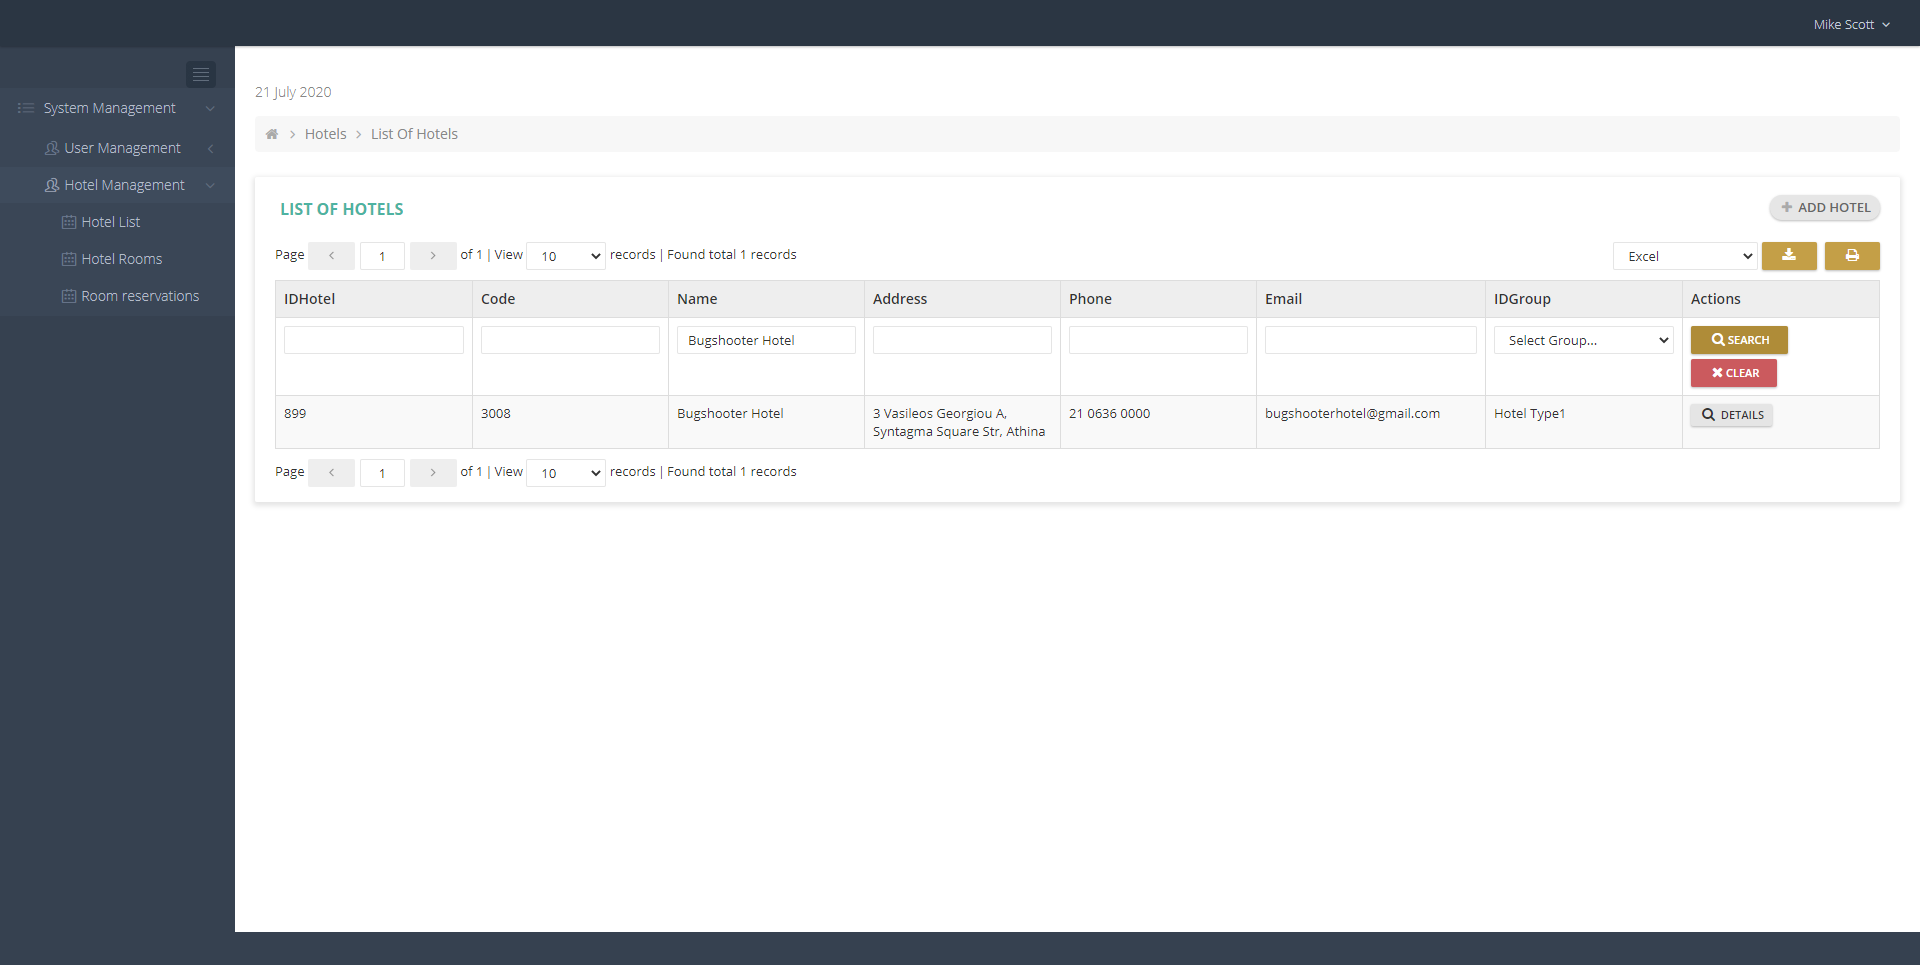
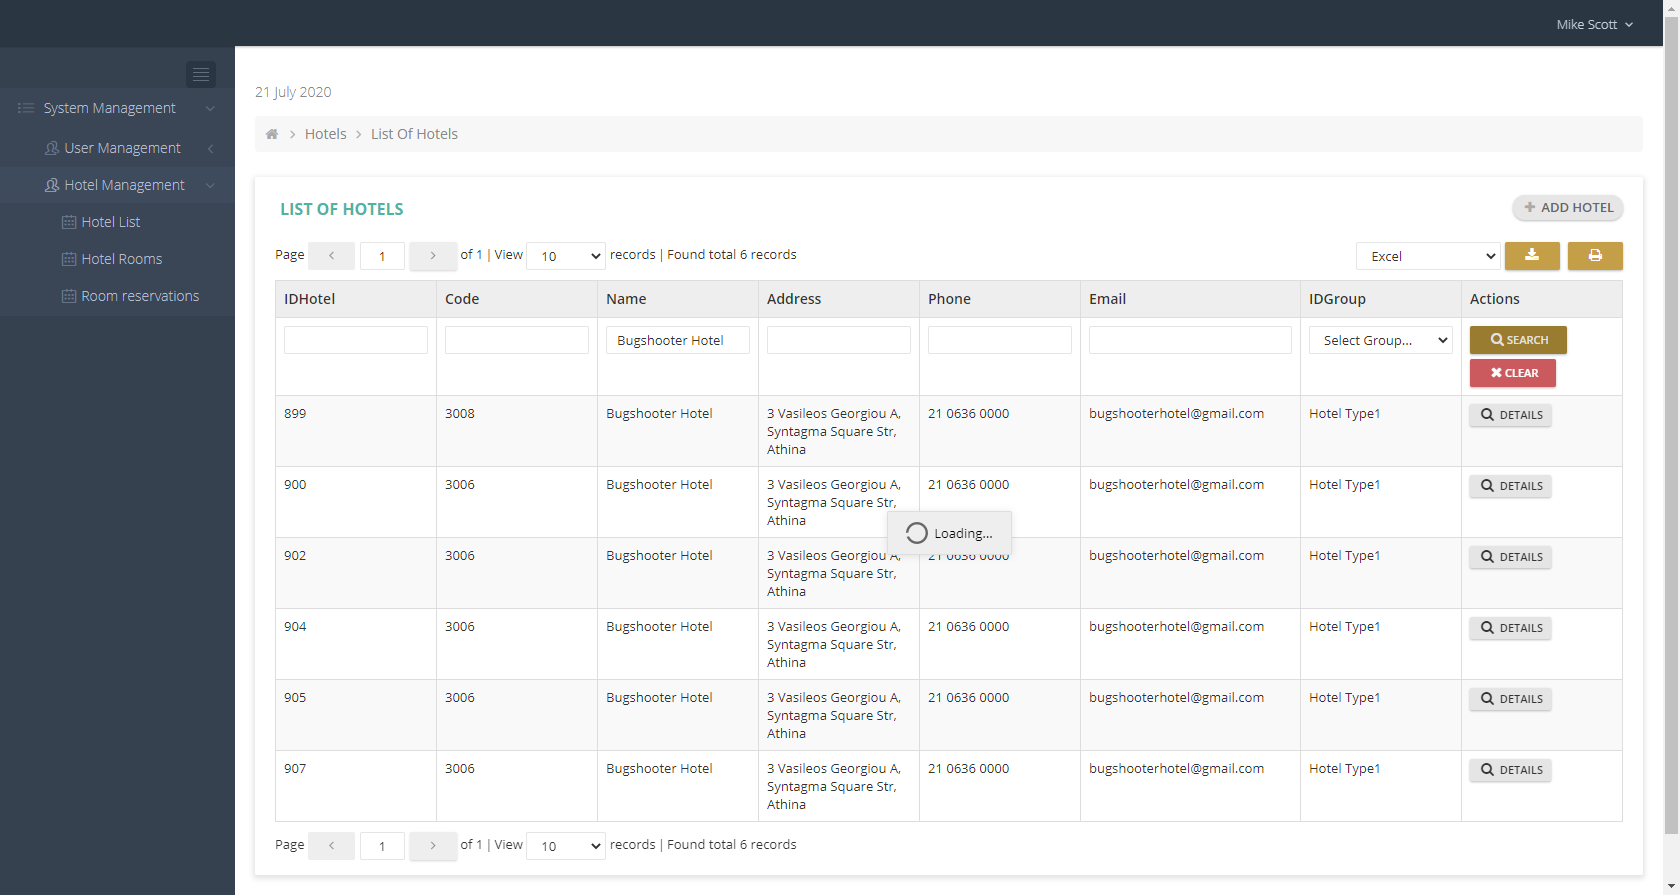
4 passed

diff --git a/target/default-cucumber-reports/report.js b/target/default-cucumber-reports/report.js
@@ -1,21 +1,21 @@
-$(document).ready(function() {var formatter = new CucumberHTML.DOMFormatter($('.cucumber-report'));formatter.uri("file:src/test/resources/features/FhcTrip/SearchUnregisteredHotel.feature");
+$(document).ready(function() {var formatter = new CucumberHTML.DOMFormatter($('.cucumber-report'));formatter.uri("file:src/test/resources/features/FhcTrip/SearchRegisteredHotel.feature");
 formatter.feature({
   "name": "Hotel Search",
   "description": "",
   "keyword": "Feature",
   "tags": [
     {
-      "name": "@SearchUnregisteredHotel"
+      "name": "@SearchRegisteredHotel"
     }
   ]
 });
 formatter.scenario({
-  "name": "As a manager, I search the hotel with unregistered data.",
+  "name": "As a manager, I search the hotel with registered data.",
   "description": "",
   "keyword": "Scenario",
   "tags": [
     {
-      "name": "@SearchUnregisteredHotel"
+      "name": "@SearchRegisteredHotel"
     }
   ]
 });
@@ -93,7 +93,7 @@ formatter.result({
   "status": "passed"
 });
 formatter.step({
-  "name": "Click on Name text box and type hotel name \"Darda\"",
+  "name": "Click on Name text box and type hotel name \"Bugshooter Hotel\"",
   "keyword": "And "
 });
 formatter.match({
@@ -113,11 +113,11 @@ formatter.result({
   "status": "passed"
 });
 formatter.step({
-  "name": "Verify the hotel the list is empty \"No data available in table\"",
+  "name": "Verify the hotel name is correct \"Bugshooter Hotel\"",
   "keyword": "Then "
 });
 formatter.match({
-  "location": "stepdefinitions.SearchUnregisteredHotel.verify_the_hotel_the_list_is_empty(java.lang.String)"
+  "location": "stepdefinitions.SearchRegisteredHotel.verify_the_hotel_name_is_correct(java.lang.String)"
 });
 formatter.result({
   "status": "passed"

diff --git a/src/test/java/stepdefinitions/HotelCreation.java b/src/test/java/stepdefinitions/HotelCreation.java
@@ -2,9 +2,17 @@ package stepdefinitions;
 
 import io.cucumber.java.en.Given;
 import io.cucumber.java.en.Then;
+import net.bytebuddy.pool.TypePool;
 import org.junit.Assert;
+import org.openqa.selenium.By;
+import org.openqa.selenium.WebDriver;
+import org.openqa.selenium.WebElement;
+import org.openqa.selenium.support.ui.ExpectedConditions;
 import org.openqa.selenium.support.ui.Select;
+import org.openqa.selenium.support.ui.Wait;
+import org.openqa.selenium.support.ui.WebDriverWait;
 import utilities.AllPage;
+import utilities.Driver;
 
 public class HotelCreation {
 
@@ -44,13 +52,11 @@ public class HotelCreation {
     @Given("Click on Email text box and type valid email {string}")
     public void click_on_Email_text_box_and_type_valid_email(String email) {
         allPage.listOfHotelsPage().emailHotel.sendKeys(email);
-    }
 
-    @Given("Click on IDGroup text box and select group Hotel Type1")
-    public void click_on_IDGroup_text_box_and_select_group_Hotel_Type1(String email) throws InterruptedException {
-        Select select = new Select(allPage.listOfHotelsPage().groupOfHotelDropdown);
-        select.selectByVisibleText("Hotel Type1");
-        Thread.sleep(3000);
+    }
+    @Given("Click on IDGroup text box and select group {string}")
+    public void click_on_IDGroup_text_box_and_select_group(String string) {
+        allPage.listOfHotelsPage().groupOfHotelDropdown.sendKeys(string);
     }
 
     @Given("Click on Save button")
@@ -59,7 +65,10 @@ public class HotelCreation {
     }
 
     @Then("Verify the message is correct {string}")
-    public void verify_the_message_is_correct(String message) {
+    public void verify_the_message_is_correct(String message) throws InterruptedException {
+        //Thread.sleep(3000);
+        WebDriverWait wait = new WebDriverWait(Driver.getDriver(), 10);
+        wait.until(ExpectedConditions.visibilityOf(allPage.listOfHotelsPage().messageHotel));
         Assert.assertEquals(allPage.listOfHotelsPage().messageHotel.getText(), message);
     }
 }

diff --git a/src/test/java/pages/ListOfHotelsPage.java b/src/test/java/pages/ListOfHotelsPage.java
@@ -26,9 +26,9 @@ public class ListOfHotelsPage {
     public WebElement groupOfHotelDropdown;
     @FindBy (id = "btnSubmit")
     public WebElement saveHotel;
-    @FindBy (id = "//div[@class='bootbox-body']")
+    @FindBy (xpath = "//div[@class='bootbox-body']")
     public WebElement messageHotel;
-    @FindBy (id = "//label[@class='error']")
+    @FindBy (xpath = "//label[@class='error']")
     public WebElement invalidEmailHotel;
     @FindBy (xpath = "//input[@name='Name']")
     public WebElement nameBoxForSearch;

diff --git a/src/test/java/stepdefinitions/SearchRegisteredHotel.java b/src/test/java/stepdefinitions/SearchRegisteredHotel.java
@@ -20,7 +20,8 @@ public class SearchRegisteredHotel {
     }
 
     @Then("Verify the hotel name is correct {string}")
-    public void verify_the_hotel_name_is_correct(String string) {
-        Assert.assertEquals(allPage.listOfHotelsPage().printData(1,3), string);
+    public void verify_the_hotel_name_is_correct(String string) throws InterruptedException {
+        Thread.sleep(3000);
+        Assert.assertEquals(string, allPage.listOfHotelsPage().printData(1,3));
     }
 }

diff --git a/src/test/java/runners/Runner.java b/src/test/java/runners/Runner.java
@@ -13,7 +13,7 @@ import org.junit.runner.RunWith;
         },
         features ="src/test/resources/features",
         glue = "stepdefinitions",
-        tags = "@SearchUnregisteredHotel",
+        tags = "@SearchRegisteredHotel",
         dryRun = false
 )
 public class Runner {
